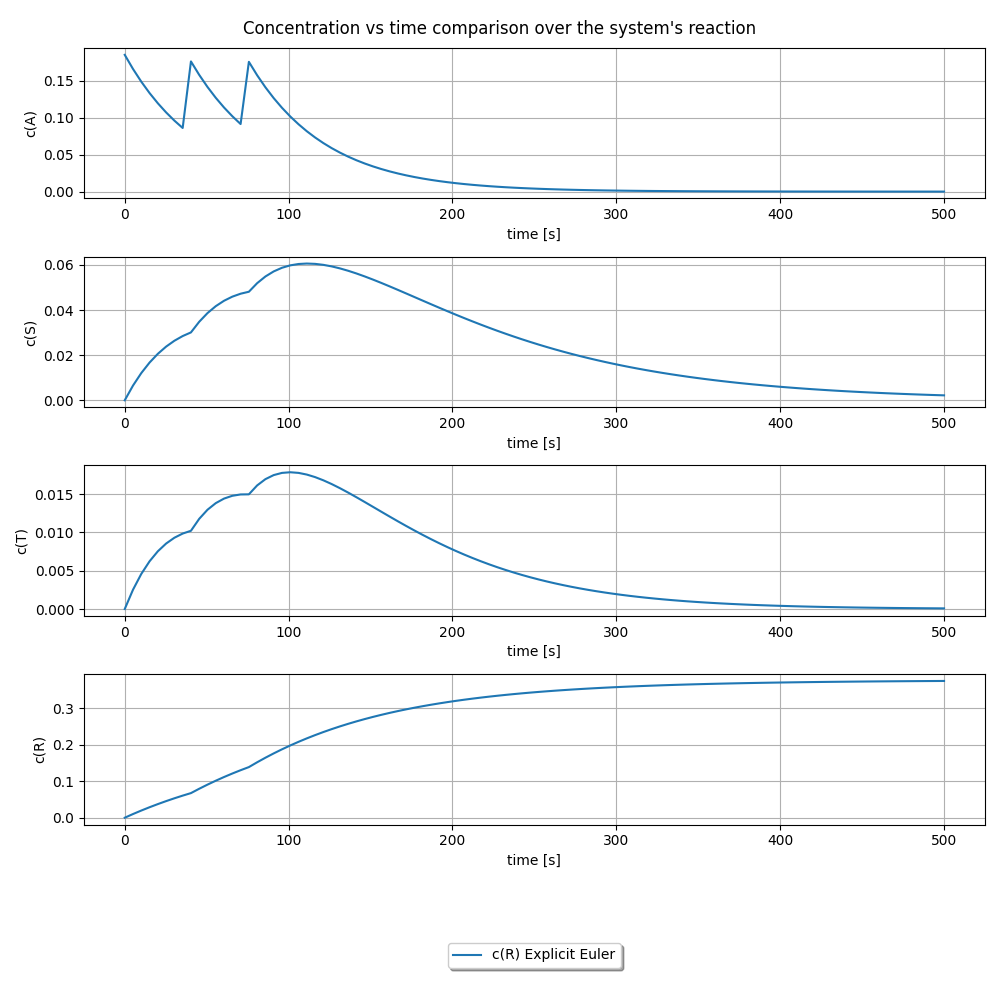
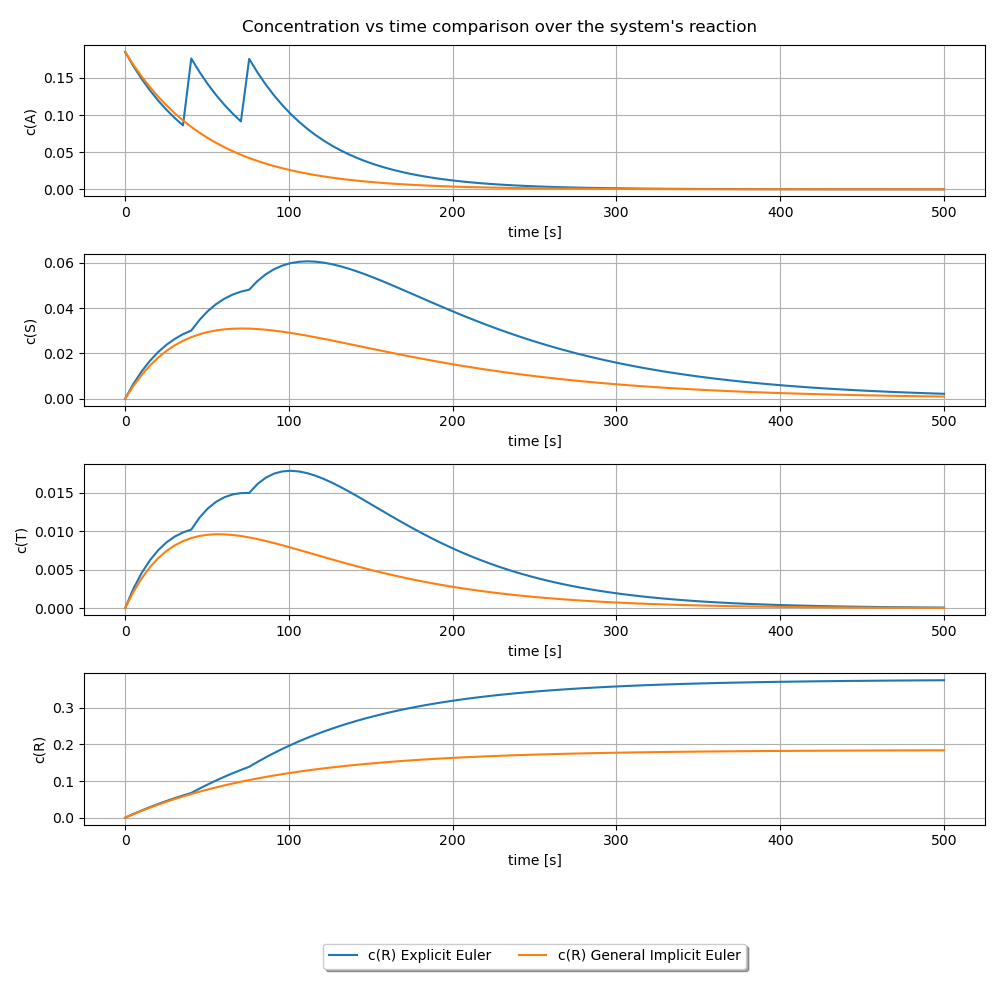
renamed a few things and added a nonInjectionModelFunction to the ModelFunction class

diff --git a/main.py b/main.py
@@ -17,41 +17,45 @@ from odeIE import odeIE
 from odeRK import odeRK
 from odeIELinear import odeIELinear
 
-from reaction_model_func import ReactionModel
+from reaction_model import ReactionModel
 from analytic_solution import analytic_solution as asol
 from constants import TOTAL_TIME, N_TIME_STEPS, cA0, cS0, cT0, cR0, k1, k2, k3, k4, k5, coeff_matrix
 
 
+components = ["c(A)", "c(S)", "c(T)", "c(R)"]
+
+
 t_num = np.linspace(0, TOTAL_TIME, N_TIME_STEPS)
 t_anal = np.linspace(0, TOTAL_TIME, 1000)
+
 y0 = np.array([cA0, cS0, cT0, cR0])
 k = np.array([k1, k2, k3, k4, k5])
 
-mfunc = ReactionModel().reaction_model_func
-mfunc2 = ReactionModel().reaction_model_func
-mfunc3 = ReactionModel().reaction_model_func
+
+mfunc = ReactionModel().model_func_injection
+mfunc2 = ReactionModel().model_func_injection
+mfunc3 = ReactionModel().model_func_injection
 
 methods = {
     "Explicit Euler": odeEE(mfunc, t_num, y0), 
-    #"General Implicit Euler": odeIE(mfunc2, t_num, y0), 
+    "General Implicit Euler": odeIE(mfunc2, t_num, y0), 
     #"Linear Implicit Euler": odeIELinear(coeff_matrix, t_num, y0), 
     #"Runge Kutta": odeRK(mfunc3, t_num, y0),
     #"Analytic Solution": asol(t_anal, y0, k)
 }
 
 
-components = ["c(A)", "c(S)", "c(T)", "c(R)"]
 
 fig, axs = plt.subplots(4, 1, figsize=(10, 10))
 for method_name, solution in methods.items():
     t, y = solution
-    for row in range(y0.size):
+    for row, component_conc in zip(range(y0.size), components):
         ci = y[row, :]
-        component = components[row]
+        # component = components[row]
         
         ax = axs[row]
-        ax.plot(t.flatten(), ci, label=f"{component} {method_name}")
-        ax.set_ylabel(component)
+        ax.plot(t.flatten(), ci, label=f"{component_conc} {method_name}")
+        ax.set_ylabel(component_conc)
         ax.set_xlabel("time [s]")
         ax.grid(True)
     print(f"{method_name} c(A): {y[0, -1]}, c(S): {y[1, -1]}, c(T): {y[2, -1]}, c(R): {y[3, -1]}")

diff --git a/reaction_model.py b/reaction_model.py
@@ -1,0 +1,26 @@
+# -*- coding: utf-8 -*-
+"""
+Created on Thu May 26 18:16:04 2022
+
+@author: Richard
+@author: Carmen
+"""
+from constants import coeff_matrix, INITIAL_cA, N_REINJECTIONS, REINJECTION_CONC_A
+
+class ReactionModel:
+    reinjection_counter = 0
+    
+    def model_func_injection(self, t, y):
+        fy = coeff_matrix @ y
+        cA = y[0][0]
+        print(f"current cA: {cA}")
+        if cA <= REINJECTION_CONC_A and self.reinjection_counter < N_REINJECTIONS:
+            y[0][0] = INITIAL_cA # re-inject A to its initial c
+            self.reinjection_counter += 1
+            print("reinjected!")
+            print(f"new cA: {y[0][0]}")
+        
+        return fy
+    
+    def model_func_standard(self, t, y):
+        return coeff_matrix @ y        

diff --git a/constants.py b/constants.py
@@ -2,8 +2,9 @@ import numpy as np
 
 TOTAL_TIME = 500
 N_TIME_STEPS = 100
-REINJECTION_COUNT = 2 #+1 from the first time 
+N_REINJECTIONS = 2 #+1 from the first time 
 INITIAL_cA = 0.185
+REINJECTION_CONC_A = 0.5 * INITIAL_cA
 
 k1 = 0.007
 k2 = 0.0108
